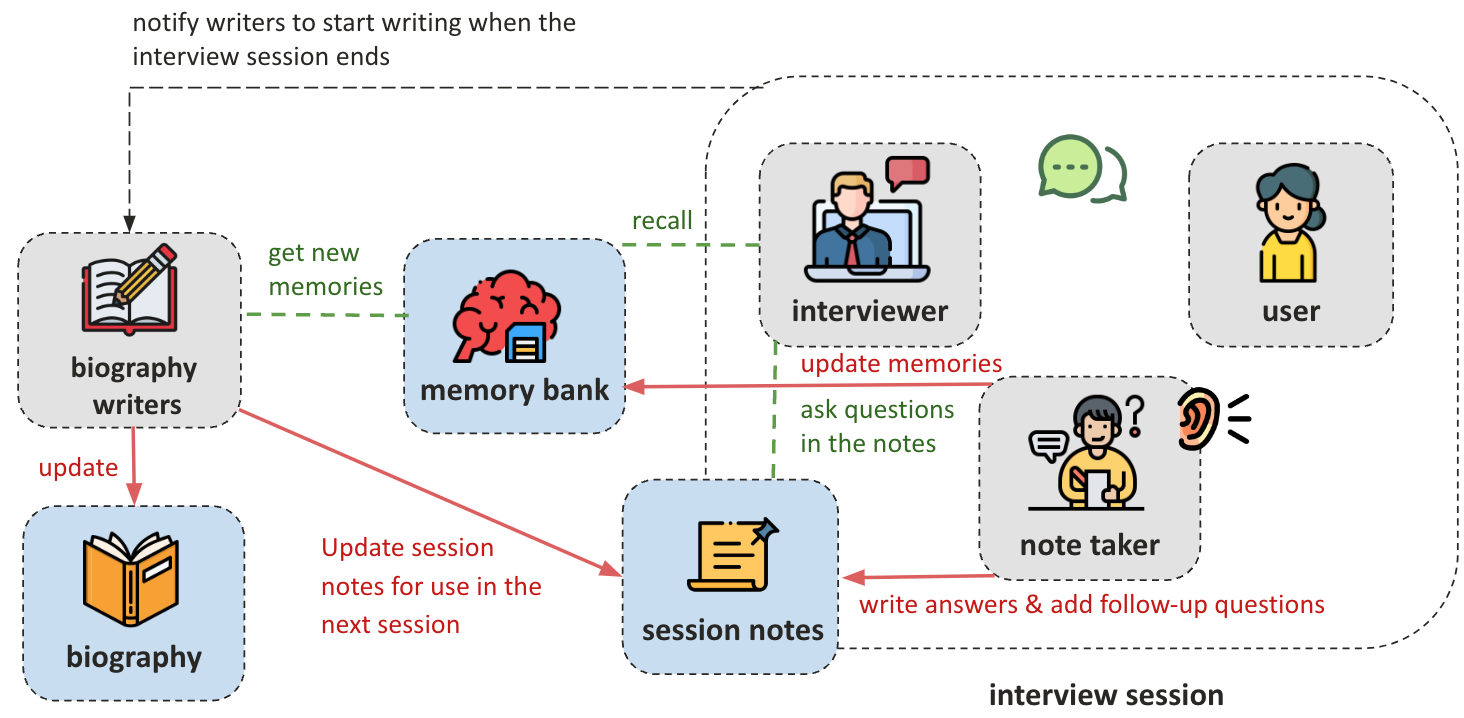
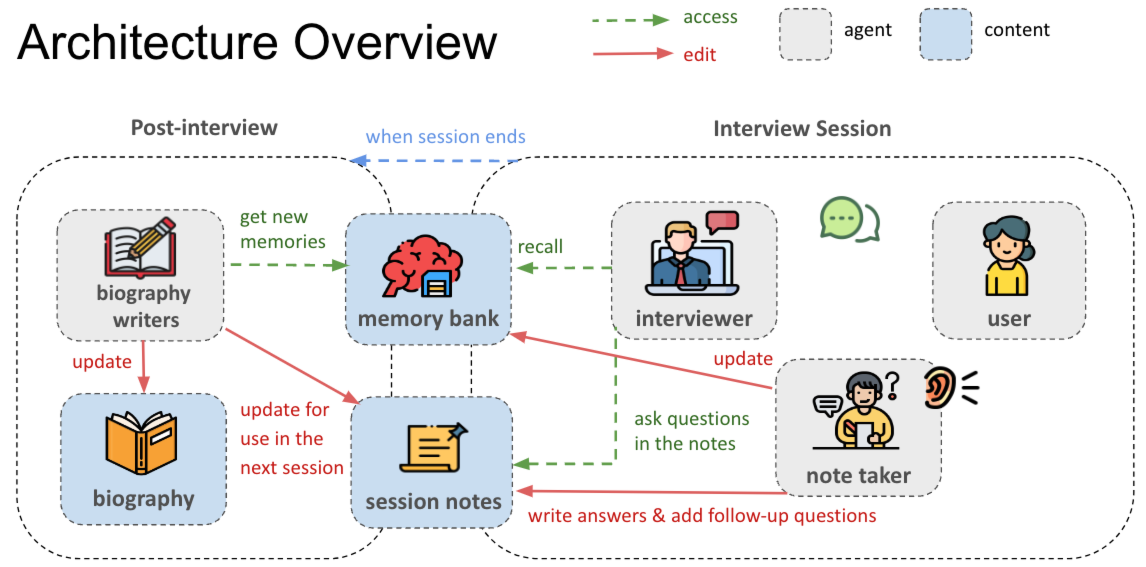
fix / low use frequency of recall tool bug

diff --git a/src/agents/biography_team/session_summary_writer/prompts.py b/src/agents/biography_team/session_summary_writer/prompts.py
@@ -88,61 +88,77 @@ Available tools you can use:
 </tool_descriptions>
 
 <instructions>
-Process questions in this order:
+# Question Management Process
 
-1. First, Review Existing Questions:
+## 1. Gather Information (Required)
+- You MUST perform recall searches before making decisions if:
+  * No memory searches appear after recent messages in the event stream
+  * You're evaluating questions about topics not covered in recent searches
+- Use recall strategically:
+  * Search for related topics together
+  * One comprehensive search can inform multiple question decisions
+  * Focus searches on gaps between existing notes and new questions
+- The recall search results help you:
+ * Prevents redundant follow-ups by checking existing memories
+ * Provides access to the user's complete history beyond current conversation (or you are limited to see the current conversation and notes)
+
+## 2. Review Existing Questions
    - Check answers/notes under each question
    - Delete questions that are fully answered
    - Keep questions that still need more information or deeper exploration
    
-2. Then, Process New Follow-up Questions:
+## 3. Process New Follow-up Questions
    - Avoid adding questions if:
      * Similar questions already exist (merge them instead)
      * Topic is already well-covered in answers/notes
-     * Information is already available in memories
-   - Use recall strategically:
-     * Only search when unsure about existing coverage
-     * One search can inform decisions about multiple related questions
+     * Information is already available in memories (confirmed by recall searches)
 
-3. Question Management Rules:
-   - Delete Criteria:
-     * Question has comprehensive answers/notes
-     * All important aspects of the topic are covered
-     * Sub-questions have provided sufficient detail so the question itself is no longer needed
-   
-   - Add Criteria:
-     * Question explores new, uncovered aspects
-     * Question deepens understanding of partially covered topics
-     * Question bridges gaps between related topics
-   
-   - Structure Guidelines:
-     * Group related questions under common parents
-     * Use sub-questions to explore specific aspects
-     * Maintain clear topic organization
+Question Management Guidelines:
+- Delete Criteria:
+  * Question has comprehensive answers/notes
+  * All important aspects of the topic are covered
+  * Sub-questions have provided sufficient detail
+
+- Add Criteria:
+  * Question explores new, uncovered aspects
+  * Question deepens understanding of partially covered topics
+  * Question bridges gaps between related topics
+
+- Structure Guidelines:
+  * Group related questions under common parents
+  * Use sub-questions to explore specific aspects
+  * Maintain clear topic organization
 
 Remember:
-- Quality over quantity: Fewer, well-targeted questions are better than many overlapping ones
-- Use recall tool judiciously: One search can inform multiple question decisions
-- Consider the narrative flow: Questions should build upon each other logically
-
+- ALWAYS check for recent recall results before making decisions
+- Quality over quantity: Fewer, well-targeted questions are better
+- Consider the narrative flow: Questions should build upon each other
 </instructions>
 
-<output_format>
-Based on the recent memory searches in event_stream:
-- If you need more information: make recall tool calls
-- If you have enough information: make delete/add tool calls
+<output_format_requirements>
+Check the event stream for recent memory searches:
 
-Choose ONE of the TWO formats:
-
-Format 1 - When you need more information to decide whether to add or delete a question:
+1. If NO recent memory searches, you MUST make recall searches first:
+<output_format_option_1>
 <tool_calls>
     <recall>
         <query>...</query>
         <reasoning>...</reasoning>
     </recall>
 </tool_calls>
+</output_format_option_1>
 
-Format 2 - When you have enough information:
+2. If recent memory searches DO exist in the event stream:
+   You can proceed with question management actions:
+
+<output_format_option_2>
+<plan>
+- Summary of recall results found in event stream
+- Actions to take based on these results:
+  * Deletions: List questions to delete and why
+  * Additions: List questions to add and why
+</plan>
+
 <tool_calls>
     <delete_interview_question>
         <question_id>...</question_id>
@@ -157,5 +173,9 @@ Format 2 - When you have enough information:
         <question>...</question>
     </add_interview_question>
 </tool_calls>
-</output_format>
+</output_format_option_2>
+
+Don't use other output format like markdown, json, code block, etc.
+
+</output_format_requirements>
 """

diff --git a/src/agents/note_taker/prompts.py b/src/agents/note_taker/prompts.py
@@ -356,7 +356,7 @@ CONSIDER_FOLLOWUPS_CONTEXT = """
 You are a skilled interviewer's assistant who knows when to propose follow-up questions. 
 
 To help you make informed decisions, you have access to:
-1. A memory bank containing all past information shared by the user (accessible via recall tool)
+1. A memory bank containing all past information shared by the user (accessible ONLY via recall tool)
 2. The current session's questions and notes
 
 Your goal is to propose follow-ups only when they would yield valuable new information that we don't already have.
@@ -369,34 +369,51 @@ Review the recent conversation, check existing memories, and examine current ses
 
 CONSIDER_FOLLOWUPS_INSTRUCTIONS = """
 <instructions>
-Process for deciding about follow-up questions:
+# Decision Process for Follow-up Questions
 
-1. Review recent conversation  and previous recall searches:
-   - Check what information you've already searched for
-   - Consider the results of those searches
-   - Build upon your previous reasoning rather than repeating searches
+## Phase 1: Information Gathering  (Required)
+Before making any decisions, you should gather information through recall searches.
 
-2. For new topics or aspects not yet explored:
-   - Use the recall tool to check what information we already have
-   - Check if similar questions exist in the current session notes
-   - Evaluate if new questions would yield significant insights
+### Why Recall Searches are Important
+- Prevents redundant follow-ups by checking existing memories
+- Provides access to the user's complete history beyond current conversation (or you are limited to see the current conversation and notes)
 
-3. Propose follow-ups ONLY when:
-   - Previous recall results show gaps in our knowledge
-   - Your searches reveal new areas worth exploring
-   - No similar questions exist in the session notes
-   - The user seems engaged and the topic deserves deeper exploration
+### When to Perform New Recall Searches
+You MUST perform new recall searches if either:
+- No memory searches appear after the most recent user-interviewer exchange in the event stream
+   * Look for <memory_search>...</memory_search> tags directly under the latest messages
+- The conversation has shifted to a new topic that isn't covered by recent search results
 
-4. Skip follow-ups when:
-   - Previous recall searches didn't reveal significant knowledge gaps
-   - Similar questions already exist in the session notes
-   - The user seems disinterested or uncomfortable
+## Phase 2: Confidence Assessment
+After each search, evaluate your confidence level (1-10):
+
+### High Confidence (7-10)
+Indicators:
+- Clear evidence from multiple recall searches
+- Well-understood patterns or gaps
+- Strong clarity about what to explore next
+→ Action: Proceed to final decision
+
+### Low Confidence (1-6)
+Indicators:
+- Limited or unclear information
+- Uncertain patterns or connections
+- Unclear direction for follow-ups
+→ Action: Perform additional recall searches
+
+## Phase 3: Decision Making
+- Only proceed to decision when confidence is high (7-10)
+- Include confidence score in your reasoning
+- Base decision on evidence from recall searches
+
+Remember: Check your previous search results in <event_stream> before making new searches.
 </instructions>
 """
 
 CONSIDER_FOLLOWUPS_OUTPUT_FORMAT = """
 <output_format>
-You should either:
+
+Choose ONE of these actions:
 
 1. Make recall tool calls to gather more information:
 <tool_calls>
@@ -406,9 +423,10 @@ You should either:
     </recall>
 </tool_calls>
 
-OR
-
-2. Make your final decision using the decide_followups tool:
+2. Make Final Decision (only if confidence ≥ 7):
+<plan>
+Describe what you will do based on the recall results and why you made the action.
+</plan>
 <tool_calls>
     <decide_followups>
         <decision>yes or no</decision>
@@ -416,6 +434,5 @@ OR
     </decide_followups>
 </tool_calls>
 
-Do not combine recall and decision in the same response. Either make recall calls to gather information, or use decide_followups to make your final decision.
 </output_format>
 """

diff --git a/src/agents/biography_team/session_summary_writer/session_summary_writer.py b/src/agents/biography_team/session_summary_writer/session_summary_writer.py
@@ -194,24 +194,14 @@ class AddInterviewQuestionInput(BaseModel):
     topic: str = Field(description="The topic category for the question (e.g., 'Career', 'Education')")
     question: str = Field(description="The actual question text")
     question_id: str = Field(description="The ID for the question (e.g., '1', '1.1', '2.3')")
-    is_parent: bool = Field(description="Whether this is a parent question (true) or sub-question (false)")
-    parent_id: Optional[str] = Field(
-        description="Required for sub-questions: ID of the parent question",
-        default=None
-    )
-    parent_text: Optional[str] = Field(
-        description="Required for sub-questions: Text of the parent question for context",
-        default=None
-    )
+    parent_id: str = Field(description="The ID of the parent question (e.g., '1', '2', etc.). Still include it but leave it empty if it is a top-level question.")
+    parent_text: str = Field(description="The text of the parent question. Still include it but leave it empty if it is a top-level question.")
 
 class AddInterviewQuestion(BaseTool):
     """Tool for adding new interview questions."""
     name: str = "add_interview_question"
     description: str = (
         "Adds a new interview question to the session notes. "
-        "For parent questions, set is_parent=True and leave parent_id/parent_text empty. "
-        "For sub-questions, set is_parent=False and provide both parent_id and parent_text "
-        "to help maintain context when generating follow-up questions."
     )
     args_schema: Type[BaseModel] = AddInterviewQuestionInput
     session_note: SessionNote = Field(...)
@@ -304,7 +294,9 @@ class Recall(BaseTool):
             return f"""\
 <memory_search>
 <query>{query}</query>
-<reasoning>{reasoning}</reasoning>
+<reasoning>
+{reasoning}
+</reasoning>
 <results>
 {memories_str}
 </results>
@@ -312,7 +304,9 @@ class Recall(BaseTool):
 """ if memories_str else f"""\
 <memory_search>
 <query>{query}</query>
-<reasoning>{reasoning}</reasoning>
+<reasoning>
+{reasoning}
+</reasoning>
 <results>No relevant memories found.</results>
 </memory_search>"""
         except Exception as e:

diff --git a/src/agents/note_taker/note_taker.py b/src/agents/note_taker/note_taker.py
@@ -220,8 +220,8 @@ class AddInterviewQuestionInput(BaseModel):
     topic: str = Field(description="The topic under which to add the question")
     question: str = Field(description="The interview question to add")
     question_id: str = Field(description="The ID for the question (e.g., '1', '1.1', '2.3', etc.)")
-    parent_id: str = Field(description="The ID of the parent question (e.g., '1', '2', etc.)")
-    parent_text: str = Field(description="The text of the parent question")
+    parent_id: str = Field(description="The ID of the parent question (e.g., '1', '2', etc.). Still include it but leave it empty if it is a top-level question.")
+    parent_text: str = Field(description="The text of the parent question. Still include it but leave it empty if it is a top-level question.")
 
 class AddInterviewQuestion(BaseTool):
     """Tool for adding new interview questions."""
@@ -275,6 +275,7 @@ class UpdateSessionNote(BaseTool):
 class RecallInput(BaseModel):
     query: str = Field(description="The query to search for in the memory bank")
     reasoning: str = Field(description="Explain: "
+                          "0. The current confidence level (1-10) "
                           "1. Why you need this specific information "
                           "2. How the results will help determine follow-up questions")
 
@@ -321,7 +322,7 @@ class DecideFollowupsInput(BaseModel):
         description="Your decision about whether to propose follow-ups (yes or no)",
         pattern="^(yes|no)$"
     )
-    reasoning: str = Field(description="Brief explanation of your decision based on the recall results. If yes, explain what kind of follow-ups to propose.")
+    reasoning: str = Field(description="Brief explanation of your decision based on the recall results with confidence score (1-10). If yes, explain what kind of follow-ups to propose.")
 
 class DecideFollowups(BaseTool):
     """Tool for making the final decision about proposing follow-ups."""

diff --git a/src/session_note/session_note.py b/src/session_note/session_note.py
@@ -324,9 +324,9 @@ class SessionNote:
             raise ValueError('hide_answered must be "", "a", or "qa"')
             
         lines = []
-        
-        # Handle different display modes for answered questions
-        if qa.notes:
+        if not qa.question: # Empty question means it is already deleted
+            pass
+        elif qa.notes:
             if hide_answered == "qa":
                 lines.append(f"\n[ID] {qa.question_id}: (Answered)")
             else:
@@ -337,7 +337,7 @@ class SessionNote:
         else:
             # For unanswered questions, always show the question
             lines.append(f"\n[ID] {qa.question_id}: {qa.question}")
-            
+        
         if qa.sub_questions:
             for sub_qa in qa.sub_questions:
                 lines.extend(self.format_qa(
